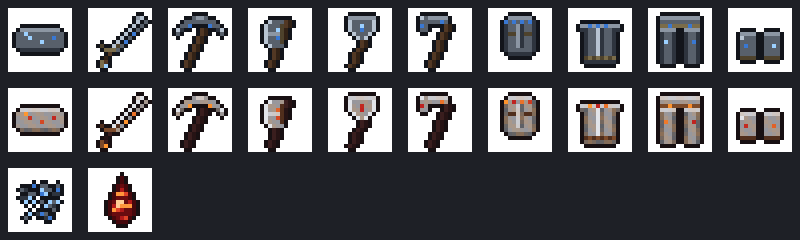
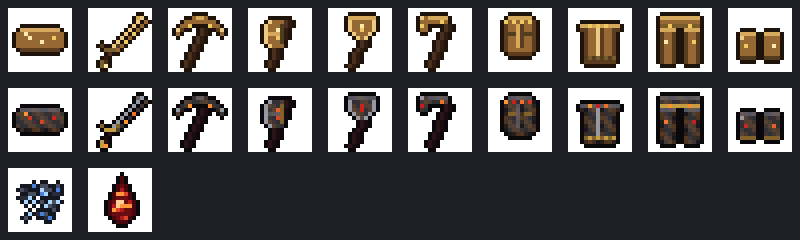
Itemization IV: re-theme kits to bronze / black-gold per HotD references
Recolour both kits to Bruno's House-of-the-Dragon references:
- Star-forged -> ornate BRONZE & gold (Knight of the Seven Kingdoms): warm
  brass plate, pale-gold edges, gilded embossing accents (static).
- Dragon-lord -> near-black Targaryen plate with GOLD fittings/trim and the
  fervent crimson blood still flowing + bleeding ember heat through the steel
  (8-frame animated).
- star_dust keeps its cold cosmic blue (new COSMIC palette) so the raw
  meteoric grit reads separately from the bronze gear.

2D item icons only; the worn 3D armour redesign (GeckoLib custom geometry)
follows in the next commits.

diff --git a/tools/items/build_items.py b/tools/items/build_items.py
@@ -1,11 +1,12 @@
 """Procedural item/block/armour textures for the Star-forged & Dragon-lord
-tiers. Deterministic pixel art with a medieval / Game-of-Thrones bent:
+tiers. Deterministic pixel art with a medieval / House-of-the-Dragon bent:
 
-  Star-forged  = dark Valyrian-style steel, cold blue temper down the fuller,
-                 brown leather-wrapped grips and dark-bronze furniture (STATIC).
-  Dragon-lord  = brighter steel run through with fervent crimson blood that
-                 FLOWS along the metal (8-frame animated .png strip + .mcmeta),
-                 embers riding the veins — the fire-forged, blood-quenched look.
+  Star-forged  = ornate BRONZE & gold, a Knight-of-the-Seven-Kingdoms look —
+                 warm brass plate, pale-gold edges, gilded embossing (STATIC).
+  Dragon-lord  = near-black Targaryen plate with GOLD trim and fervent crimson
+                 blood that FLOWS through the metal (8-frame animated .png strip
+                 + .mcmeta), embers on the crest — the blood-quenched apex.
+  (star_dust keeps its cold cosmic blue via the COSMIC palette.)
 
 The blade/tool/plate silhouettes are drawn as real shapes (broad fullered
 blades, crossguards, pommels, plate cuirasses) so they read correctly when the
@@ -52,19 +53,32 @@ class Palette:
         self.animated = animated
 
 
+# Star-forged: warm bronze/brass plate with gilded edges (Knight of the Seven
+# Kingdoms). `metal` is a darker bronze for fittings; `accent`/`spark` are the
+# gilded embossing.
 STAR = Palette(
-    steel=(88, 96, 107), light=(140, 150, 163), dark=(46, 52, 62),
-    edge=(184, 196, 210), leather=(82, 56, 36), leather_d=(50, 34, 22),
-    metal=(122, 108, 74), metal_d=(78, 66, 44),
-    accent=(58, 120, 210), spark=(156, 208, 255),
-    outline=(19, 21, 27), animated=False)
+    steel=(150, 104, 52), light=(214, 168, 92), dark=(92, 60, 30),
+    edge=(238, 202, 130), leather=(74, 48, 30), leather_d=(46, 28, 16),
+    metal=(120, 92, 44), metal_d=(80, 60, 30),
+    accent=(240, 200, 96), spark=(255, 234, 170),
+    outline=(30, 20, 12), animated=False)
 
+# Dragon-lord: near-black Targaryen plate, GOLD fittings/trim (`metal`), and
+# crimson blood (`accent`) that flows + bleeds ember heat into the steel.
 LORD = Palette(
-    steel=(150, 152, 159), light=(202, 204, 210), dark=(94, 96, 103),
-    edge=(226, 228, 233), leather=(58, 30, 30), leather_d=(38, 19, 20),
-    metal=(124, 74, 42), metal_d=(80, 46, 28),
-    accent=(190, 34, 32), spark=(255, 150, 46),
-    outline=(24, 16, 18), animated=True)
+    steel=(46, 46, 52), light=(84, 84, 94), dark=(22, 22, 27),
+    edge=(150, 152, 162), leather=(40, 20, 22), leather_d=(24, 12, 14),
+    metal=(198, 156, 66), metal_d=(128, 98, 42),
+    accent=(198, 30, 30), spark=(255, 150, 50),
+    outline=(10, 8, 10), animated=True)
+
+# star_dust: cold cosmic blue-grey grit (kept independent of the bronze kit).
+COSMIC = Palette(
+    steel=(70, 78, 96), light=(120, 140, 175), dark=(40, 45, 60),
+    edge=(170, 200, 245), leather=(50, 54, 68), leather_d=(34, 36, 48),
+    metal=(90, 96, 116), metal_d=(60, 64, 80),
+    accent=(70, 130, 220), spark=(170, 215, 255),
+    outline=(20, 22, 32), animated=False)
 
 
 def _shade(c, f):
@@ -678,7 +692,7 @@ if __name__ == "__main__":
         for part, fn in SHAPES.items():
             previews.append((f"{tier}_{part}", save_item(f"{tier}_{part}", fn(), pal)))
         build_armor_layer(tier, pal)
-    previews.append(("star_dust", save_item("star_dust", dust(), STAR)))
+    previews.append(("star_dust", save_item("star_dust", dust(), COSMIC)))
     previews.append(("dragon_blood", build_blood()))
     build_ore(); build_forge_block(); build_gui(); build_keeper()
     build_preview(previews)
